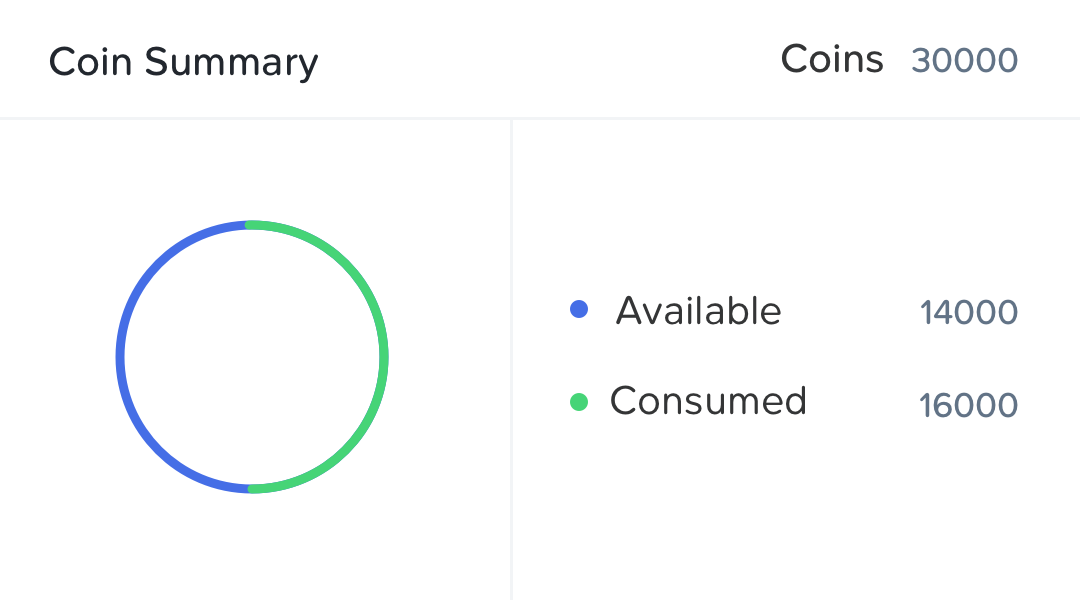
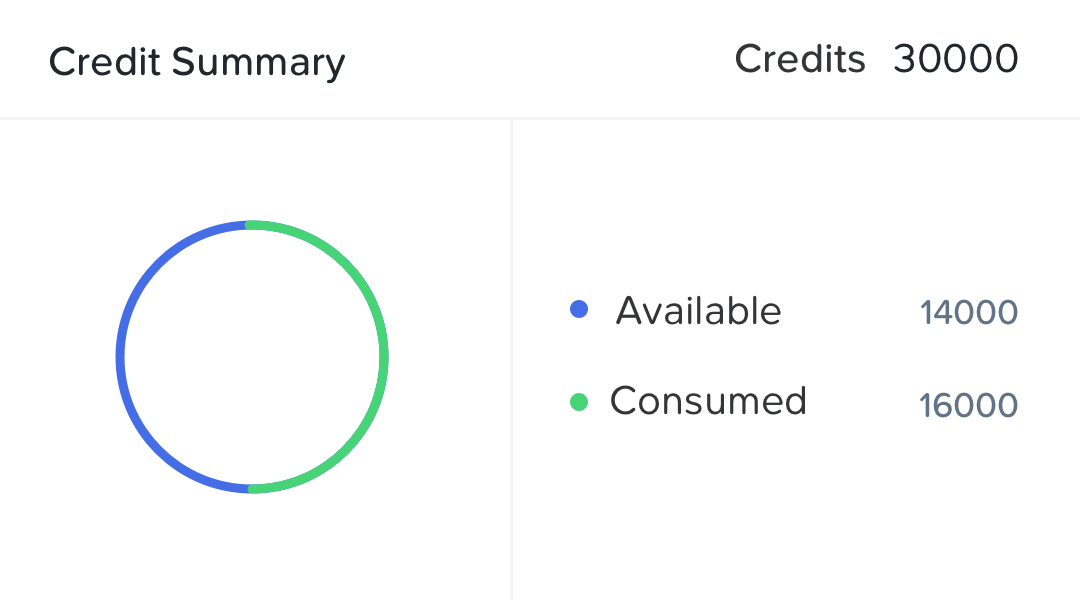
credits

Changed region(s): [[0.6722, 0.06, 0.9472, 0.12], [0.0611, 0.06, 0.3361, 0.15]]

diff --git a/js/popup.js b/js/popup.js
@@ -10,11 +10,11 @@ const addNodePopupBody = `
   <h3> SSD  <code> 300 </code></h3>
 </div>  -->
 
-<h4 style='margin-top:2px; margin-bottom:15px;'>Current Cluster CCU usage</h4>
+<h4 style='margin-top:2px; margin-bottom:15px;'>Current Cluster Credit usage</h4>
 
 <div class='license-pair current-consumption' style='margin-left: 20px; margin-top:20px;'>
-  <h3><kbd> Acropolis Pro  12000 CCUs</kbd> </h3>
-  <h3><kbd> File Server 12000 CCUs</kbd> </h3>
+  <h3><kbd> Acropolis Pro  12000 Credits</kbd> </h3>
+  <h3><kbd> File Server 12000 Credits</kbd> </h3>
 </div>`
 
 
@@ -157,21 +157,21 @@ const popupData = {
 
     <div class='separator'></div>
 
-    <h3>Cluster Licenses <kbd>&nbsp; 920 CCUs</kbd></h3>
+    <h3>Cluster Licenses <kbd>&nbsp; 920 Credits</kbd></h3>
     <div class='deck' style='margin-bottom:30px;'>
-    <div class='popup-card' style='width:100%;'> <h3 style='text-align:left; margin-left:15px;'>Acropolis Pro <kbd>&nbsp;120 CCUs </kbd></h3></div>
+    <div class='popup-card' style='width:100%;'> <h3 style='text-align:left; margin-left:15px;'>Acropolis Pro <kbd>&nbsp;120 Credits </kbd></h3></div>
 
-    <div class='popup-card' style='width:100%; margin-top:10px;'> <h3 style='text-align:left; margin-left:15px;'>File Server <kbd>&nbsp;800 CCUs </kbd></h3>
+    <div class='popup-card' style='width:100%; margin-top:10px;'> <h3 style='text-align:left; margin-left:15px;'>File Server <kbd>&nbsp;800 Credits </kbd></h3>
     </div>
 
     </div>
 
 
-    <h3 style='margin-top:60px;'>Cluster CCU consumption<kbd>&nbsp; 920 CCUs</kbd></h3>
+    <h3 style='margin-top:60px;'>Cluster Credit consumption<kbd>&nbsp; 920 Credits</kbd></h3>
     <div class='deck'>
-    <div class='popup-card' style='width:100%;'> <h3 style='text-align:left; margin-left:15px;'>LIC-123123123 <kbd>&nbsp;&nbsp;460 CCUs &nbsp; exp.12/12/2020</kbd></h3></div>
+    <div class='popup-card' style='width:100%;'> <h3 style='text-align:left; margin-left:15px;'>LIC-123123123 <kbd>&nbsp;&nbsp;460 Credits &nbsp; exp.12/12/2020</kbd></h3></div>
 
-    <div class='popup-card' style='width:100%; margin-top:10px;'> <h3 style='text-align:left; margin-left:15px;'>LIC-123123123 <kbd>&nbsp;&nbsp;450 CCUs &nbsp; exp.12/12/2020</kbd></h3></div>
+    <div class='popup-card' style='width:100%; margin-top:10px;'> <h3 style='text-align:left; margin-left:15px;'>LIC-123123123 <kbd>&nbsp;&nbsp;450 Credits &nbsp; exp.12/12/2020</kbd></h3></div>
 
     </div>
 
@@ -276,7 +276,7 @@ const layer2Data = {
         </div>
 
         <div class='panel2'>
-          <h3 style='margin-bottom:19px;''>Cluster licensing costs in <kbd class='tooltip-trigger2'>CCUs </kbd></h3>
+          <h3 style='margin-bottom:19px;''>Cluster licensing costs in <kbd class='tooltip-trigger2'>Credits </kbd></h3>
 
           <div class=flexbox-stretch>
             <kbd>${licensePrices[0].key}</kbd> <code>${licensePrices[0].price}</code>
@@ -297,7 +297,7 @@ const layer2Data = {
               <div class='grower'></div>
           <div class='separator' style='margin-top:0px;'></div>
 
-          <p>Licensed until 12/12/20<br>based on CCU validity dates.</p>
+          <p>Licensed until 12/12/20<br>based on Credit validity dates.</p>
         </div>
 
       </div>
@@ -310,7 +310,7 @@ const layer2Data = {
   <div class="popup-body">
     <span class='count money'>4000</span>
     <p style='margin-bottom:30px;'> Their expiration date is 12/12/2020</p>
-    <h3 style='text-align:center; margin-bottom:0;'> Your unused licenses available on this cluster have freed up CCUs. These have been credited to your account.</h3>
+    <h3 style='text-align:center; margin-bottom:0;'> Your unused licenses available on this cluster have freed up Credits. These have been credited to your account.</h3>
   </div>
   <div class="popup-footer">${popupData.footer[6]}</div>
 `,

diff --git a/js/script.js b/js/script.js
@@ -10,7 +10,7 @@ $(document).keyup(e => {
 function cardsData() {
   var cards = cardData.cardBody.length;
   var index = 0;
-  $('aside h4').text(`${cardData.cardBody[1]} CCUs Available`)
+  $('aside h4').text(`${cardData.cardBody[1]} Credits Available`)
   // function
   while (cards > 0) {
     $('.deck').append(
@@ -100,7 +100,7 @@ function multiPopup() {
     setTimeout(countNumbers(), 600);
     cardData.cardBody[1] += 40000;
     $('.card:eq(1) h4').text(cardData.cardBody[1]);
-    $('aside h4').text(`${cardData.cardBody[1]} CCUs Available`);
+    $('aside h4').text(`${cardData.cardBody[1]} Credits Available`);
   });
 
   $('.manage-addons').click(() => {
@@ -253,7 +253,7 @@ function dropDown() {
 
 //counter
 function countNumbers() {
-  $('.layer2 .popup-body').before(`<div class='banner'>4000 CCUs have been credited to your account.</div>`);
+  $('.layer2 .popup-body').before(`<div class='banner'>4000 Credits have been credited to your account.</div>`);
   $('.banner').toggle();
   $('.money').css('color', '#18BE5F');
   $('.popup-header').css('border-bottom', 'none');
@@ -284,7 +284,7 @@ function countNumbers() {
 
 
 function countNumbers2() {
-  $('.layer2 .popup-body').before(`<div class='banner-info'>Capacity changes detected, additional CCUs required. <span class=' tooltip-trigger3'>Why?</span></div>`);
+  $('.layer2 .popup-body').before(`<div class='banner-info'>Capacity changes detected, additional Credits required. <span class=' tooltip-trigger3'>Why?</span></div>`);
   $('.banner-info').toggle();
 
   $('.popup-header').css('border-bottom', 'none');
@@ -315,7 +315,7 @@ $(document).ready(function() {
   multiClusterData();
   $('.reclaim-popup').click(() => {
     popupContent(1)
-    $('.popup-header').after(`<div class='mutli-line-info'><p style='line-height:1.5;'> Make sure you update Prism Central licenses too, in order to retrieve all available CCUs.</p></div>`);
+    $('.popup-header').after(`<div class='mutli-line-info'><p style='line-height:1.5;'> Make sure you update Prism Central licenses too, in order to retrieve all available Credits.</p></div>`);
     $('.banner').toggle();
     $('.popup-header').css('border-bottom', 'none');
     $('.banner').slideDown();
@@ -366,7 +366,7 @@ $(document).ready(function() {
       // CheckoutData2();
       // $('#fs').trigger('click');
       // countNumbers2();
-      // $('.panel2 h3').text(`Additional CCUs required`);
+      // $('.panel2 h3').text(`Additional Credits required`);
       // $('.panel2').css('height','250px');
       // $('.flexbox-stretch kbd:eq(0)').text('Pro');
     });

diff --git a/popup.js b/popup.js
@@ -15,8 +15,8 @@ const addNodePopupBody= `
 <p style='margin-bottom:20px;'> Cluster has in file the following licenses.</p>
 
 <div class='license-pair current-consumption' style='margin-left: 20px;'>
-  <h3> Acropolis Pro  <code> 3000 CCUs </code></h3>
-  <h3> File Server  <code> 3000 CCUs </code></h3>
+  <h3> Acropolis Pro  <code> 3000 Credits </code></h3>
+  <h3> File Server  <code> 3000 Credits </code></h3>
 </div>`
 
 
@@ -223,7 +223,7 @@ const layer2Data = {
         </div>
 
         <div class='panel2'>
-          <h3 style='margin-bottom:19px;''>Cluster licensing costs in <kbd class='tooltip-trigger2'>CCUs </kbd></h3>
+          <h3 style='margin-bottom:19px;''>Cluster licensing costs in <kbd class='tooltip-trigger2'>s </kbd></h3>
 
           <div class=flexbox-stretch>
             <kbd>${licensePrices[0].key}</kbd> <code>${licensePrices[0].price}</code>
@@ -244,7 +244,7 @@ const layer2Data = {
               <div class='grower'></div>
           <div class='separator' style='margin-top:0px;'></div>
 
-          <p>Licensed until 12/12/20<br>based on CCU validity dates.</p>
+          <p>Licensed until 12/12/20<br>based on  validity dates.</p>
         </div>
 
       </div>
@@ -257,7 +257,7 @@ const layer2Data = {
   <div class="popup-body">
     <span class='count money'>4000</span>
     <p style='margin-bottom:30px;'> Their expiration date is 12/12/2020</p>
-    <h3 style='text-align:center; margin-bottom:0;'> Your unused licenses available on this cluster have freed up CCUs. These have been credited to your account.</h3>
+    <h3 style='text-align:center; margin-bottom:0;'> Your unused licenses available on this cluster have freed up s. These have been credited to your account.</h3>
   </div>
   <div class="popup-footer">${popupData.footer[6]}</div>
 `,]

diff --git a/purchases.html b/purchases.html
@@ -1,4 +1,4 @@
-<!DOCTYPE html>
+Credit<!DOCTYPE html>
 <html lang="en">
 
 <head>
@@ -26,7 +26,7 @@
 
   <aside>
     <h1>Licenses</h1>
-    <h4>CCUs available</h4>
+    <h4>Credits available</h4>
     <div class='separator'></div>
     <ul>
       <li><a href='overview.html'>Summary</a></li>
@@ -49,7 +49,7 @@
     <div class='card' style="width:100%">
       <div class='card-body'>
         <h4>350000</h4>
-        <p>Total purchased CCUs</p>
+        <p>Total purchased Credits</p>
       </div>
     </div>
 
@@ -59,9 +59,9 @@
       <thead>
         <tr class='table-header'>
           <th>License ID</th>
-          <th>CCUs Purchased</th>
-          <!-- <th>CCUs Purchased</th> -->
-          <th>CCUs in use</th>
+          <th>Credits Purchased</th>
+          <!-- <th>Credits Purchased</th> -->
+          <th>Credits in use</th>
           <th>Expiration date</th>
         </tr>
       </thead>

diff --git a/js/data.js b/js/data.js
@@ -1,11 +1,11 @@
 const multiClusterData2 = {
   cardBody: [13000, 50000, 3000, 1000],
-  cardSecondary: ['Total Consumed CCUs', `Available CCUs`, 'Consumed by Prism Central ', 'Consumed by Calm'],
+  cardSecondary: ['Total Consumed Credits', `Available Credits`, 'Consumed by Prism Central ', 'Consumed by Calm'],
 }
 
 const cardData = {
   cardBody: [13000, 50000, 4000, 2000],
-  cardSecondary: ['Total Consumed CCUs', 'Available CCUs', 'Consumed in Acropolis', 'Consumed in Add-Ons'],
+  cardSecondary: ['Total Consumed Credits', 'Available Credits', 'Consumed in Acropolis', 'Consumed in Add-Ons'],
 }
 
 const fsChecked = `

diff --git a/multi-cluster.html b/multi-cluster.html
@@ -26,7 +26,7 @@
 
   <aside>
     <h1>Licenses</h1>
-    <h4>CCUs available</h4>
+    <h4>Credits available</h4>
     <div class='separator'></div>
     <ul>
       <li><a href='overview.html'>Summary</a></li>
@@ -63,9 +63,9 @@
       <thead>
         <tr class='table-header'>
           <th>Name</th>
-          <th>CCUs Purchased</th>
-          <!-- <th>CCUs Purchased</th> -->
-          <th>CCUs in use</th>
+          <th>Credits Purchased</th>
+          <!-- <th>Credits Purchased</th> -->
+          <th>Credits in use</th>
           <th>Expiration date</th>
         </tr>
       </thead>

diff --git a/index.html b/index.html
@@ -26,7 +26,7 @@
 
   <aside>
     <h1>Licenses</h1>
-    <h4>CCUs available</h4>
+    <h4>Credits available</h4>
     <div class='separator'></div>
     <ul>
       <li><a href='overview.html'>Summary</a></li>
@@ -64,8 +64,8 @@
         <tr class='table-header'>
           <th>Name</th>
           <th>License Type</th>
-          <!-- <th>CCUs Purchased</th> -->
-          <th>CCUs in use</th>
+          <!-- <th>Credits Purchased</th> -->
+          <th>Credits in use</th>
           <th>Expiration date</th>
         </tr>
       </thead>

diff --git a/css/style.css b/css/style.css
@@ -880,7 +880,7 @@ header .right {
 }
 
 .tooltip-trigger2::before {
-  content: "CCU is a licensing \A currency\A to access all our software offerings.";
+  content: "Credit is a licensing \A currency\A to access all our software offerings.";
   left: -120px;
 }
 
@@ -1658,7 +1658,7 @@ Popup
 }
 
 .popup-body .money::after {
-  content: ' CCUs';
+  content: ' Credits';
 }
 
 .popup-body .term {

diff --git a/css/style.scss b/css/style.scss
@@ -347,7 +347,7 @@ header {
 	@extend .tooltip-trigger;
 
 	&::before {
-		content: "CCU is a licensing \A currency\A to access all our software offerings.";
+		content: "Credit is a licensing \A currency\A to access all our software offerings.";
 		left: -120px;
 	}
 }
@@ -908,7 +908,7 @@ Popup
 		justify-content: center;
 
 		&::after {
-			content: ' CCUs';
+			content: ' Credits';
 		}
 	}
 

diff --git a/overview.html b/overview.html
@@ -26,7 +26,7 @@
 
   <aside>
     <h1>Licenses</h1>
-    <h4>CCUs available</h4>
+    <h4>Credits available</h4>
     <div class='separator'></div>
     <ul>
       <li class='sidebar-selected'><a href='overview.html'>Summary</a></li>

diff --git a/README.md b/README.md
@@ -1,2 +1,2 @@
-# ntnx-CCU
-CCU - alternatives
+#Credit
+Credit - alternatives
